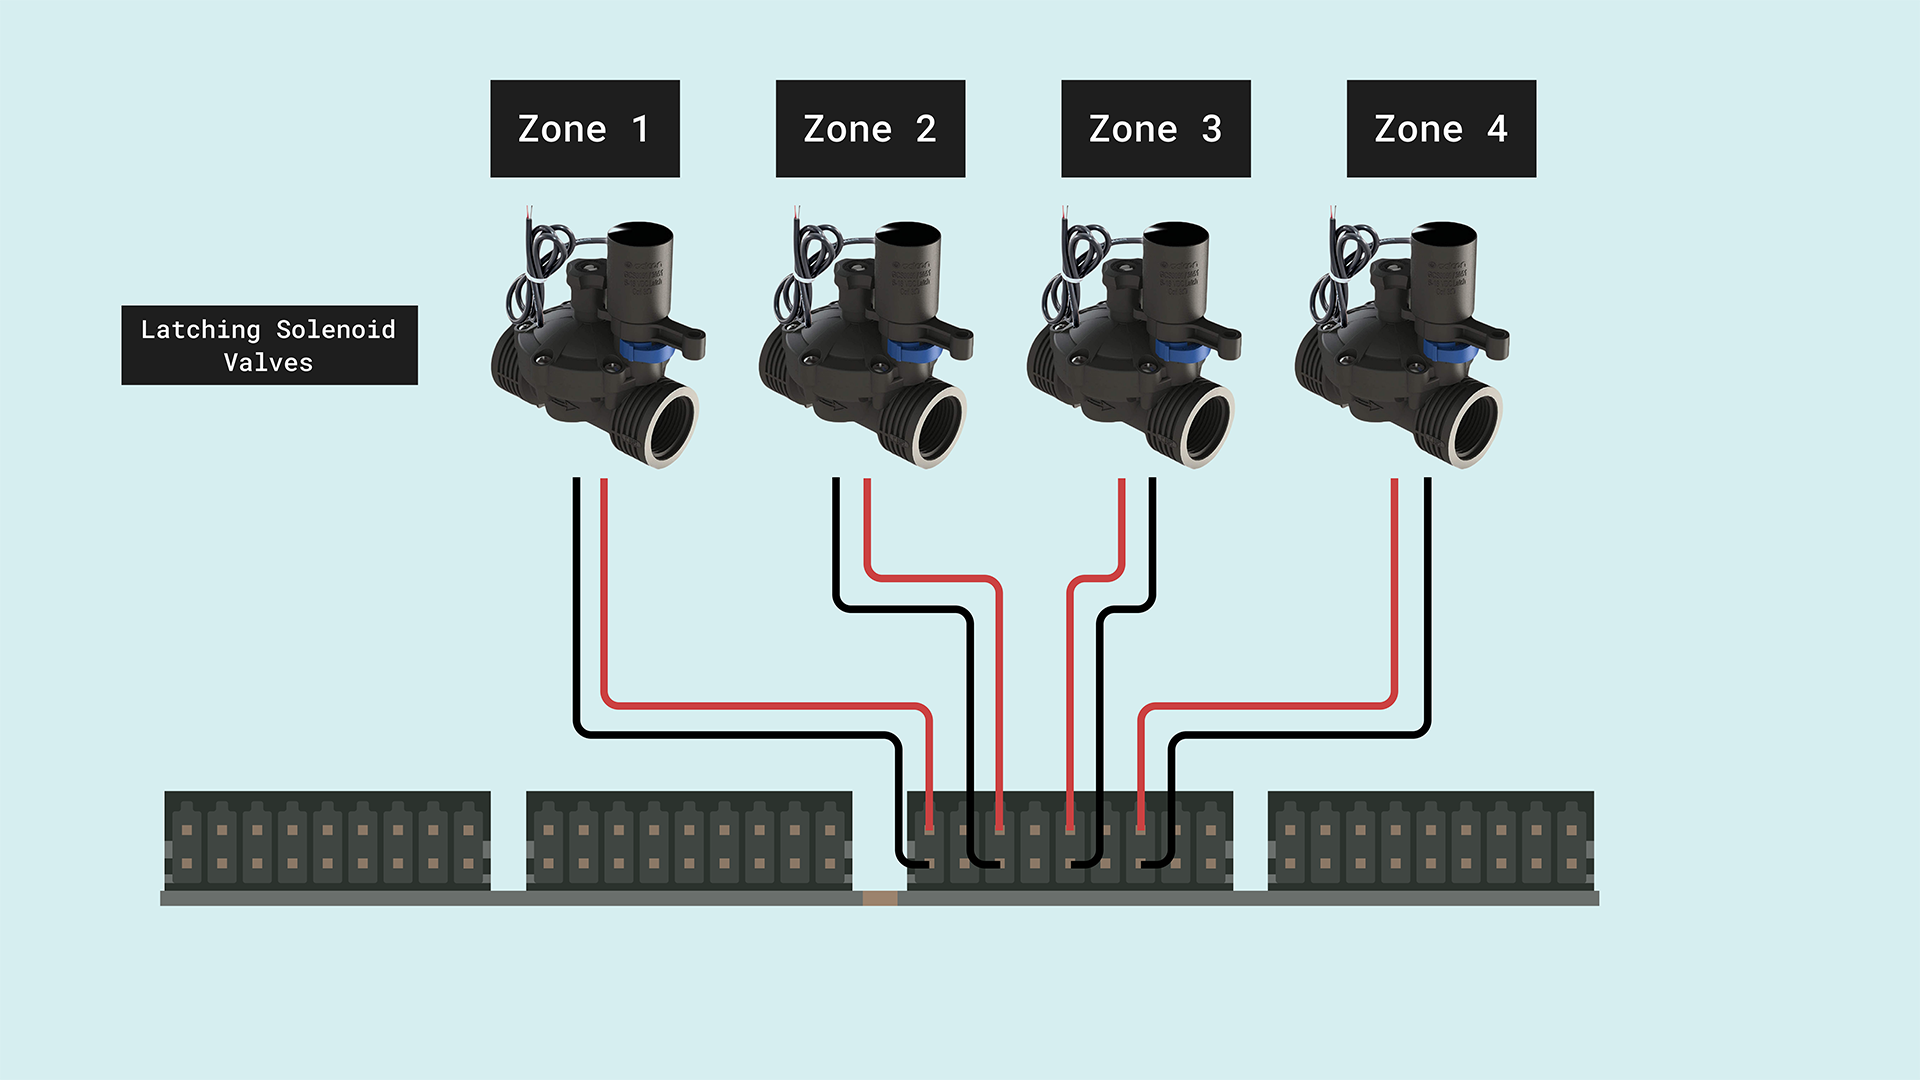
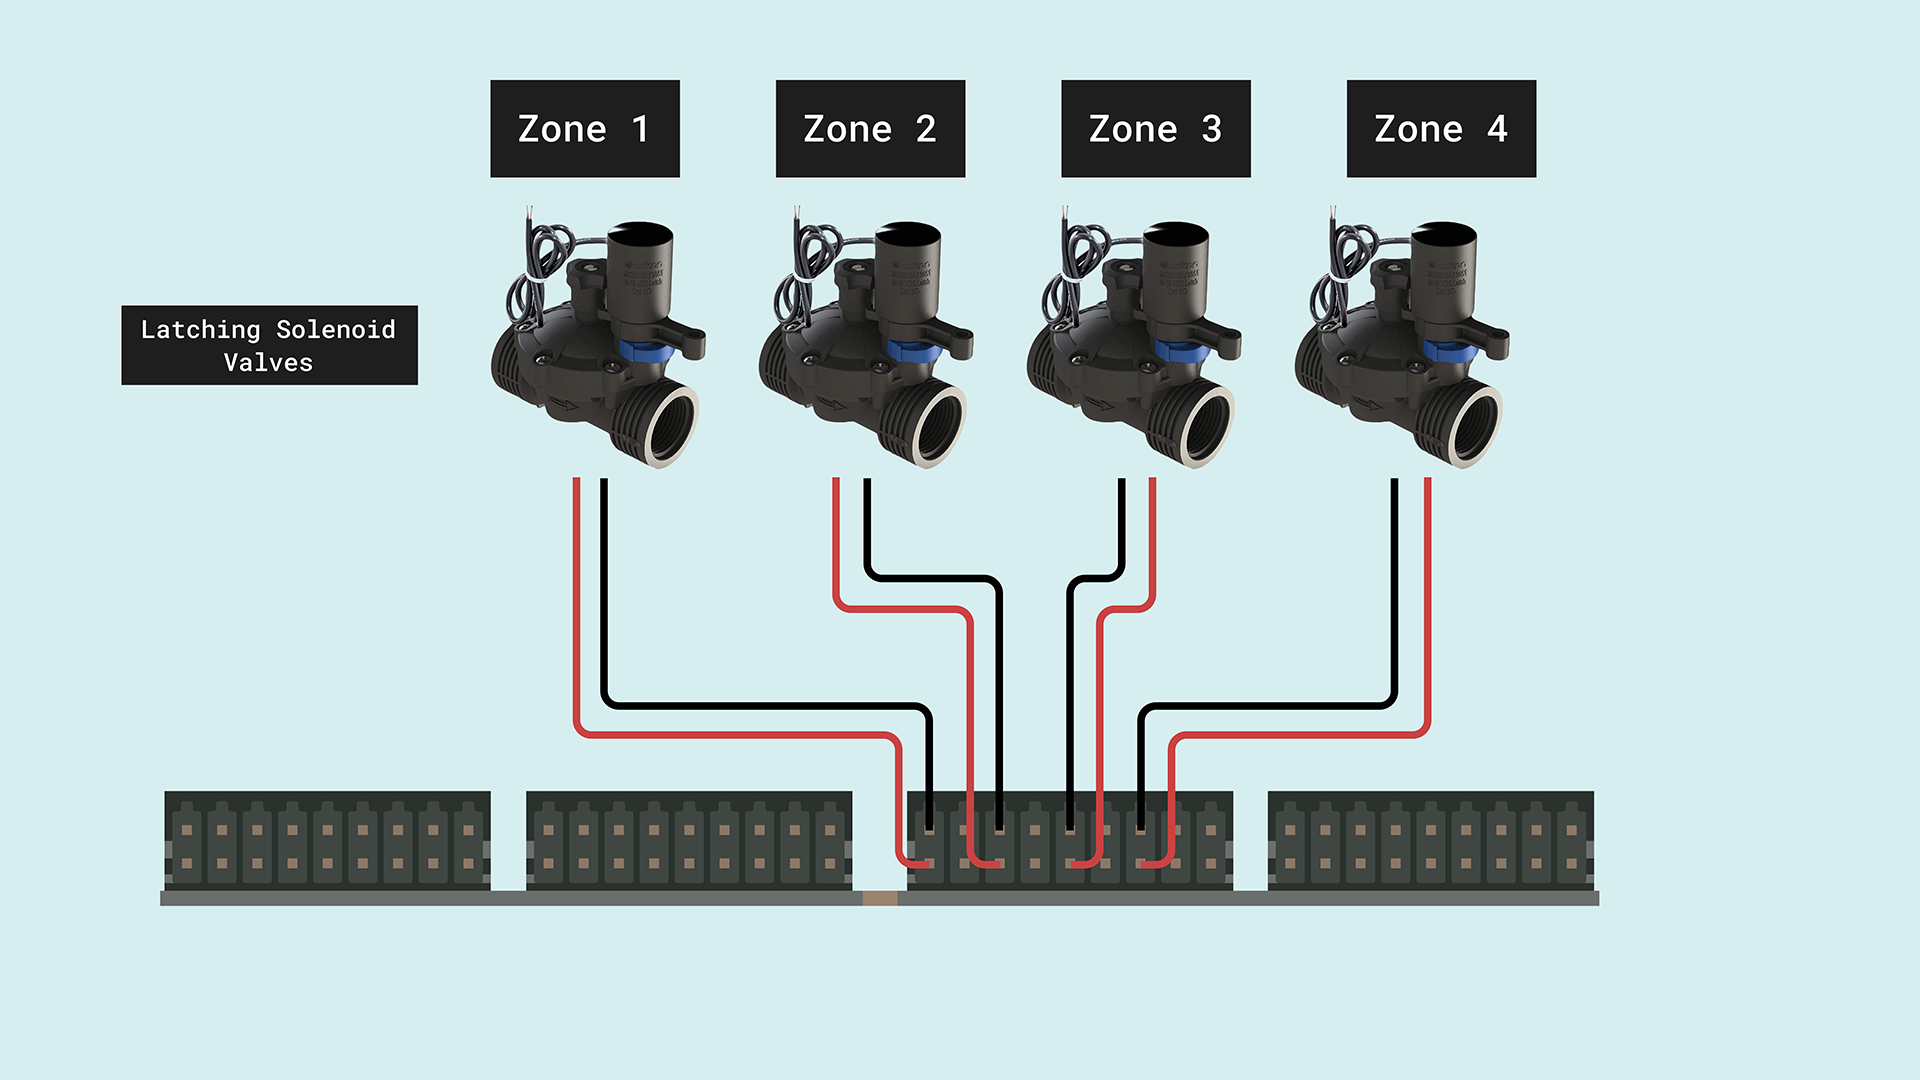
App note content and images update

Changed region(s): [[0.2812, 0.4278, 0.75, 0.825]]

diff --git a/content/hardware/05.pro-solutions/solutions-and-kits/edge-control/tutorials/smart-irrigation-system-v2/content.md b/content/hardware/05.pro-solutions/solutions-and-kits/edge-control/tutorials/smart-irrigation-system-v2/content.md
@@ -63,7 +63,7 @@ The goal of this application note is to showcase a sensorized farming irrigation
 - Arduino Edge Control Enclosure Kit
 - Water flow sensor (YF-B2 DN15)
 - WATERMARK Soil Moisture Sensors.
-- 2-Wires Irrigation Solenoid Valves (x4)
+- 2-Wires Latching Solenoid Valves (x4)
 - 12 VDC 5Ah acid/lead SLA battery (x1)
 - 18 VDC 180 W solar panel.
 - 3.4 meters of DN15 PVC pipes (x1)
@@ -96,7 +96,7 @@ The electrical connections of the intended application are shown in the diagram 
 
 ![Power connection diagram](assets/POWER_CONNECTIONS.png)
 
-- The four solenoid valves will be connected to the Edge Control relay contacts of J11 connector following the wiring below. 
+- The four solenoid valves will be connected to the Edge Control latching outputs of the J9 connector following the wiring below. 
 
 ![Solenoid valves connection diagram](assets/VALVES_CONNECTIONS.png)
 
@@ -124,7 +124,9 @@ The communication between both devices is done leveraging the I2C communication 
 
 ### Valves Control
 
-The valves can be controlled manually by using the onboard button, one tap opens the valve one, two taps valve two, and so on. Also, the valves can be controlled automatically by the system when the soil moisture is poor. The working time of the valves is monitored and reported on the cloud to enable an efficient visualization of the average daily use.
+The valves can be controlled manually by using the onboard button, one tap opens the valve one, two taps valve two, and so on. Also, the valves can be controlled automatically by the system when the soil moisture is poor, for this we must enable the "Smart mode" by tapping the button five times. The working time of the valves is monitored and reported on the cloud to enable an efficient visualization of the average daily use.
+
+*** These valves are latching ones, which means they are activated by a pulse. The polarity defines if it opens or closes. This pulse must be in the range of 20-40 ms, more than that can damage the latching outputs. *** 
 
 ### Water Usage
 
@@ -146,19 +148,228 @@ This measurement is done in Centibars, and we can use the following readings as 
 
 Let's go through some important code sections to make this application fully operative; starting with the required libraries:
 
+```arduino
+#include <Arduino_EdgeControl.h>
+#include <Wire.h>
+#include <RunningMedian.h>
+
+#include "SensorValues.hpp"
+#include "Helpers.h"
+
+// The MKR1 board I2C address
+#define EDGE_I2C_ADDR 0x05
+
+constexpr unsigned int adcResolution{ 12 };  // Analog Digital Converter resolution for the Watermark sensors.
+
+mbed::LowPowerTimeout TimerM;
+
+// Watermark sensors thresholds
+const long open_resistance = 35000, short_resistance = 200, short_CB = 240, open_CB = 255, TempC = 28;
+
+// Watermark sensors channels
+uint8_t watermarkChannel[4] = { 0, 1, 2, 3 };
+
+constexpr float tauRatio{ 0.63f };
+constexpr float tauRatioSamples{ tauRatio * float{ (1 << adcResolution) - 1 } };
+constexpr unsigned long sensorDischargeDelay{ 2 };
+
+constexpr unsigned int measuresCount{ 20 };
+RunningMedian measures{ measuresCount };
+
+constexpr unsigned int calibsCount{ 10 };
+RunningMedian calibs{ calibsCount };
+
+unsigned long previousMillis = 0;  // will store last time the sensors were updated
+
+const long interval = 180000;  // interval of the LoRaWAN message (milliseconds)
+
+// Variables for the water flow measurement
+volatile int irqCounts;
+float calibrationFactor = 4.5;
+volatile byte pulseCount = 0;
+float flowRate = 0.0;
+unsigned int flowMilliLitres = 0;
+unsigned long totalMilliLitres = 0;
+unsigned long oldTime = 0;
+unsigned long oldTime2 = 0;
+
+// Valves flow control variables
+bool controlV1 = 1;
+bool controlV2 = 1;
+bool controlV3 = 1;
+bool controlV4 = 1;
+
+// Valves On time kepping variables
+int StartTime1, CurrentTime1;
+int StartTime2, CurrentTime2;
+int StartTime3, CurrentTime3;
+int StartTime4, CurrentTime4;
+
+// LCD flow control variables
+bool controlLCD = 1;
+int showTimeLCD = 0;
+
+// Smart mode variables
+#define dry_soil 30
+bool smart = false;
+bool V1open = 0;
+bool V2open = 0;
+bool V3open = 0;
+bool V4open = 0;
+/** UI Management **/
+// Button statuses
+enum ButtonStatus : byte {
+  ZERO_TAP,
+  SINGLE_TAP,
+  DOUBLE_TAP,
+  TRIPLE_TAP,
+  QUAD_TAP,
+  FIVE_TAP,
+  LOT_OF_TAPS
+};
+
+// ISR: count the button taps
+volatile byte taps{ 0 };
+// ISR: keep elapsed timings
+volatile unsigned long previousPress{ 0 };
+// ISR: Final button status
+volatile ButtonStatus buttonStatus{ ZERO_TAP };
+
+SensorValues_t vals;
+
+```
 - `Arduino_EdgeControl.h` will enable the support for the Edge Control peripherals; install it by searching for it on the Library Manager.
-- `Wire.h` will enable the I2C communication between the Edge Control, the MKR WiFi 1010 and the other peripherals. It is included in the Board Support Package (BSP) of the Edge Control.
-- `RunningMedian.h` will enable the support for the Edge Control peripherals; install it by searching for it on the Library Manager.
+- `Wire.h` will enable the I2C communication between the Edge Control, the MKR WAN 1310 and the other peripherals. It is included in the Board Support Package (BSP) of the Edge Control.
+- `RunningMedian.h` handles the calculations regarding the watermark sensor measurements.
 
 There are two headers included in the project code able to handle some helper functions and structures:
 
-- `SensorValues.hpp` handles the shared variables between the Edge Control and the MKR WiFi 1010 through I2C.
-- `helpers.h` handles the real-time clock (RTC) functions to retrieve the local date and time.
+- `SensorValues.hpp` handles the shared variables between the Edge Control and the MKR WAN 1310 through I2C.
+- `Helpers.h` handles the real-time clock (RTC) functions to retrieve the local date and time.
 
-This code's section also contains the defined structure to handle the number of enclosure button taps to control each valve manually.
+This code's section also contains all the system variables regarding the following:
+- Constants and variables to set and store the watermark sensors data.
+- Constants and variables for the water flow sensor.
+- Flow control variables.
+- Structure to handle the number of button taps to control each valve manually.
 
 ```arduino
+/**
+  Main section setup
+*/
+void setup() {
+
+  EdgeControl.begin();
+  Wire.begin();
+
+  delay(500);
+  Serial.begin(115200);
+  delay(2000);
+
+  Power.enable3V3();
+  Power.enable5V();
+  Power.on(PWR_3V3);
+  Power.on(PWR_VBAT);
+  Power.on(PWR_MKR1);
+
+  delay(5000);  // giving time for the MKR WAN 1310 to boot
+
+  // Init Edge Control IO Expander
+  Serial.print("IO Expander initializazion ");
+  if (!Expander.begin()) {
+    Serial.println("failed.");
+    Serial.println("Please, be sure to enable gated 3V3 and 5V power rails");
+    Serial.println("via Power.enable3V3() and Power.enable5V().");
+  } else Serial.println("succeeded.");
+
+  // Init IRQ INPUT pins
+  pinMode(IRQ_CH1, INPUT);
+
+  // Attach callbacks to IRQ pins
+  attachInterrupt(digitalPinToInterrupt(IRQ_CH1), [] {irqCounts++;},FALLING);
+
+  // LCD button definition
+  pinMode(POWER_ON, INPUT);
+  attachInterrupt(POWER_ON, buttonPress, RISING);
+
+  Watermark.begin();
+  Latching.begin();
+  analogReadResolution(adcResolution);
+
+  setSystemClock(__DATE__, __TIME__);  // define system time as a reference for the RTC
+
+  // Init the LCD display
+  LCD.begin(16, 2);
+  LCD.backlight();
+
+  LCD.home();
+  LCD.print("LoRa Irrigation");
+  LCD.setCursor(5, 1);
+  LCD.print("System");
+  CloseAll();
+  delay(2000);
+
+  LCD.clear();
+}
 ```
+
+To save energy and resources, the Edge Control has different power lines that must be enabled to power the different internal and external peripherals. In this case, the 3.3 V, 5 V, Battery, and the MKR1 slot need to be enabled. 
+
+We are using an external interruption for the water flow sensor attached to the IRQ_CH1 and the LCD button.
+
+To handle all the I/O, the I/O Expander together with the Enclosure Kit LCD and the sensors inputs need to be initialized. 
+
+```arduino
+void loop() {
+
+  // LCD button taps detector function
+  detectTaps();
+  tapsHandler();
+
+  // reset the valves accumuldated on time every day at midnight
+  if (getLocalhour() == " 00:00:00") {
+    Serial.println("Resetting accumulators every day");
+    vals.z1_on_time_local = 0;
+    vals.z2_on_time_local = 0;
+    vals.z3_on_time_local = 0;
+    vals.z4_on_time_local = 0;
+    delay(1000);
+  }
+
+  readWatermark();
+
+  if ((millis() - oldTime2) >= 1000)  // Only process counters once per second
+  {
+    oldTime2 = millis();
+    readWaterFLow();
+    auto vbat = Power.getVBat(adcResolution);
+    Serial.print("Battery Voltage: ");
+    Serial.println(vbat);
+    vals.battery_volt_local = vbat;
+  }
+
+  unsigned long currentMillis = millis();
+
+  if (currentMillis - previousMillis >= interval) {
+
+    previousMillis = currentMillis;
+
+    // send local sensors values and retrieve cloud variables status back and forth
+    Serial.println("Sending variables to MKR");
+    updateSensors();
+  }
+
+  // activate, deactive and keep time of valves function
+  valvesHandler();
+}
+```
+
+The Edge Control will check the number of button taps for the valve's manual control and handle the right action to do through the use of a switch case statement.
+Then will read the watermark sensors, and periodically it will measure the battery voltage.
+
+Every 3 minutes, the Edge Control will request the MKR WAN to send a LoRaWAN message updating the sensors values in the cloud. 
+
+Finally, from our loop function, we will check the valves states to control them and keep their ON time.
 
 ### Arduino MKR WAN 1310 Code
 
